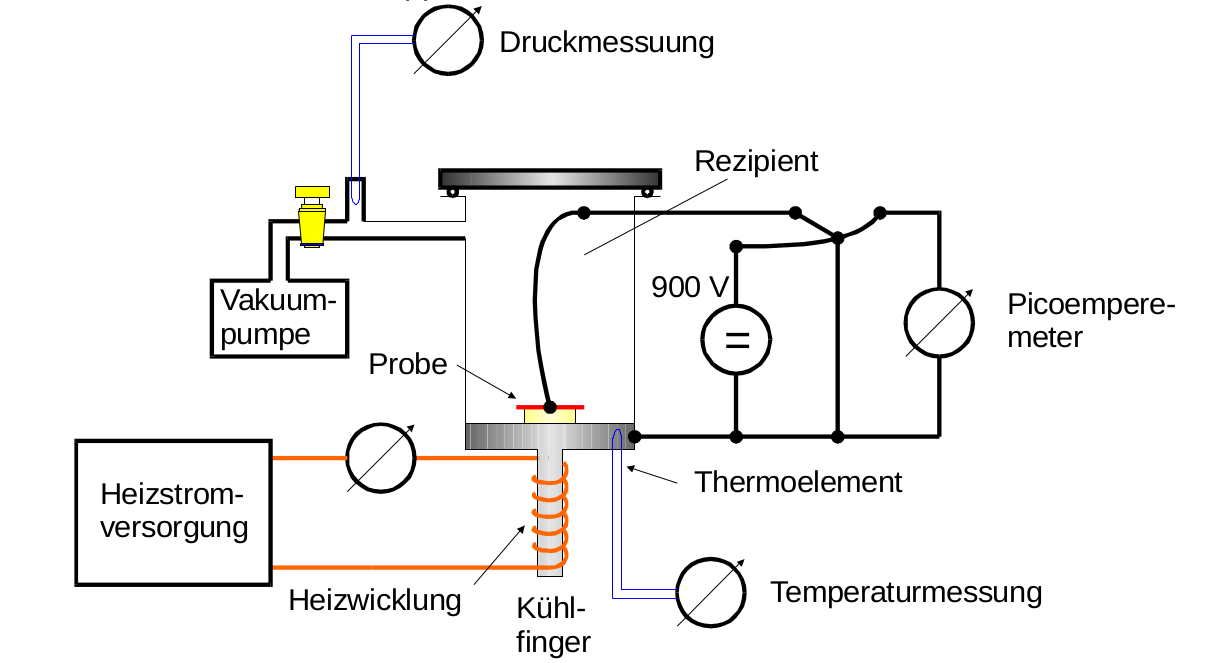
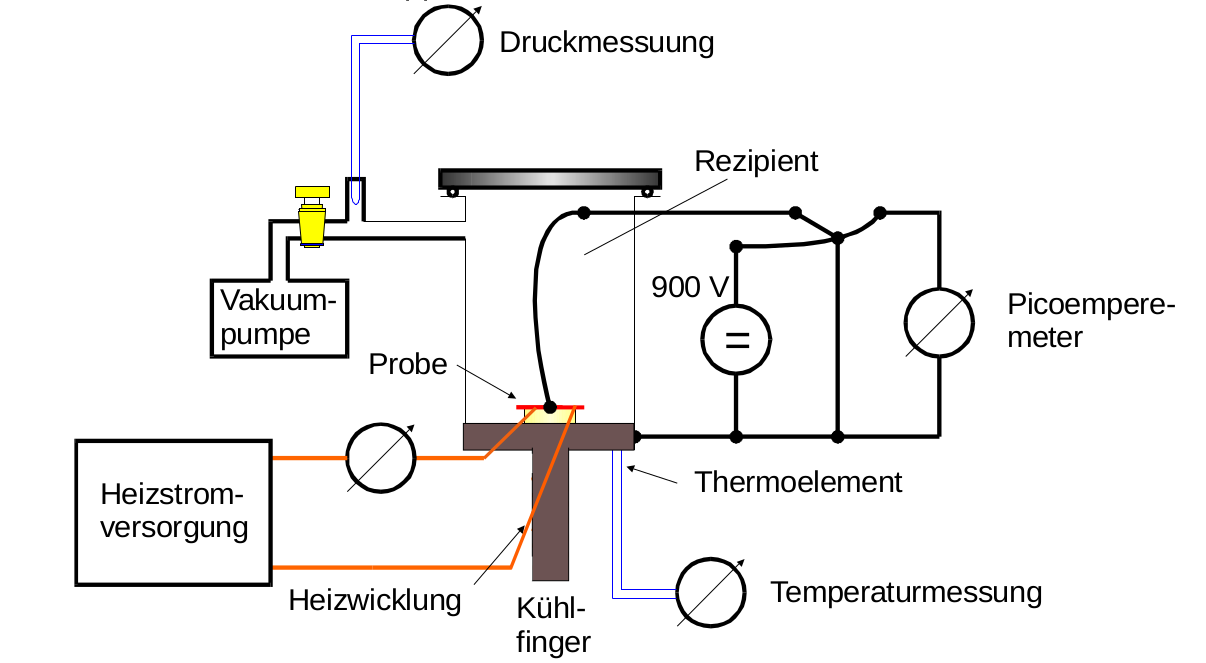
Fehler in Theo geändert und Bild neu

Changed region(s): [[0.3682, 0.6033, 0.5216, 0.8748]]

diff --git a/V48 Dipolrelaxation/content/auswertung.tex b/V48 Dipolrelaxation/content/auswertung.tex
@@ -1,35 +1,35 @@
 \section{Auswertung} \label{sec:Auswertung}
 Im Rahmen des Versuches wurde der Relaxationsstrom gemessen, dieser ist bis auf einen konstanten 
-Faktor proportional zur Stromdichte. 
-Deshalb können die zuvor dargestellten Zusammenhänge untersucht werden, 
-ohne das darauf Rücksicht genommen werden muss. 
+Faktor proportional zur Stromdichte.
+Deshalb können die zuvor dargestellten Zusammenhänge untersucht werden,
+ohne das darauf Rücksicht genommen werden muss.
 Die Daten zu den jeweiligen Diagrammen finden sich im Anhang \ref{sec:Anhang}.
 \paragraph{Bestimmung und Abzug des Untergrundes}
-In den Abbildungen \ref{fig:U2plot},\ref{fig:U15plot} sind die Relaxationsströme gegen die 
-Probentemperaturen aufgetragen, diese wurden mit verschiedenen Heizraten aufgenommen. 
-Es wurde versucht eine Messreihe mit einer Heizrate von \SI{2}{\celsius\per\minute} und eine 
-mit Heizrate \SI{1.5}{\celsius\per\minute} aufzunehmen. 
-Die berechneten, also die tatsächlichen Heizraten betragen 
-bei der Messreihe mit Soll-Heizrate \SI{2}{\celsius\per\minute}, 
-$\SI{2.089}{\celsius\per\minute} = \SI{0.035}{\kelvin\per\second}$ und bei der 
-Messreihe mit \SI{1.5}{\celsius\per\minute} Soll-Heizrate, 
-$\SI{1.37}{\celsius\per\minute} = \SI{0.023}{\kelvin\per\second}$. 
-Zur Beginn der Auswertung wird der apparative Vorlauf des 
-Amperemeter von den Daten abgezogen. Danach werden die Minima der Relaxationskurven ausfindig 
-gemacht (rote Punkte), 
-da diese den Verlauf des Untergrundes abzeichnen. Der Untergrund nimmt exponentiell mit 
+In den Abbildungen \ref{fig:U2plot},\ref{fig:U15plot} sind die Relaxationsströme gegen die
+Probentemperaturen aufgetragen, diese wurden mit verschiedenen Heizraten aufgenommen.
+Es wurde versucht eine Messreihe mit einer Heizrate von \SI{2}{\celsius\per\minute} und eine
+mit Heizrate \SI{1.5}{\celsius\per\minute} aufzunehmen.
+Die berechneten, also die tatsächlichen Heizraten betragen
+bei der Messreihe mit Soll-Heizrate \SI{2}{\celsius\per\minute},
+$\SI{2.089}{\celsius\per\minute} = \SI{0.035}{\kelvin\per\second}$ und bei der
+Messreihe mit \SI{1.5}{\celsius\per\minute} Soll-Heizrate,
+$\SI{1.37}{\celsius\per\minute} = \SI{0.023}{\kelvin\per\second}$.
+Zur Beginn der Auswertung wird der apparative Vorlauf des
+Amperemeter von den Daten abgezogen. Danach werden die Minima der Relaxationskurven ausfindig
+gemacht (rote Punkte),
+da diese den Verlauf des Untergrundes abzeichnen. Der Untergrund nimmt exponentiell mit
 der Temperatur zu. Deshalb wird dieser mit der Gleichung
 \begin{equation}
-U(T) = 	A\cdot \exp (C\cdot T ) + B 
+U(T) = 	A\cdot \exp (C\cdot T ) + B
 \end{equation}
-angenährt und mit nicht-linearer Ausgleichsrechnung die Parameter $A,B,C$ bestimmt. 
-Die Parameter sind für die jeweiligen Messreihen in der Tabelle \ref{tab:Uparam} dargestellt. 
-Die Untergrundkurven sind auch in den Abbildungen \ref{fig:U2plot},\ref{fig:U15plot} zu finden. 
-Zudem wurden in den Abbildungen der Bereich der den ersten Relaxationsprozess zeigt eingeschränkt 
-(rote Linien), nur dieser Bereich wird in der späteren Auswertung betrachtet. 
-Außerdem ist das Maximum der 
+angenährt und mit nicht-linearer Ausgleichsrechnung die Parameter $A,B,C$ bestimmt.
+Die Parameter sind für die jeweiligen Messreihen in der Tabelle \ref{tab:Uparam} dargestellt.
+Die Untergrundkurven sind auch in den Abbildungen \ref{fig:U2plot},\ref{fig:U15plot} zu finden.
+Zudem wurden in den Abbildungen der Bereich der den ersten Relaxationsprozess zeigt eingeschränkt
+(rote Linien), nur dieser Bereich wird in der späteren Auswertung betrachtet.
+Außerdem ist das Maximum der
 Relaxationskurve eingezeichnet, dieser Punkt ist ebenfalls für die spätere Auswertung interessant.
-Nachdem der Untergrund bestimmt ist wird dieser von den Daten abgezogen und nur noch der 
+Nachdem der Untergrund bestimmt ist wird dieser von den Daten abgezogen und nur noch der
 eingeschränkte Bereich betrachtet.
 
 \begin{table}
@@ -57,24 +57,24 @@ eingeschränkte Bereich betrachtet.
 \end{figure}
 \begin{figure}
   \centering
-  \includegraphics[height = 10cm]{plots/M1UGplot.pdf}
+  \includegraphics[height = 10cm]{plots/M2UGplot.pdf}
   \caption{Darstellung der Daten die mit Heizrate \SI{1.5}{\celsius\per\minute}aufgenommen wurden.}
   \label{fig:U15plot}
 \end{figure}
 \FloatBarrier
 \paragraph{Bestimmung der Akivierungsenergie anhand der Nährung der Stromdichte}
-Der folgende Teil der Auswertung bezieht sich auf die Nährung \eqref{eq:StromdichteNäherung2} 
+Der folgende Teil der Auswertung bezieht sich auf die Nährung \eqref{eq:StromdichteNäherung2}
 der Stromdichte. Durch logarithmieren dieser Gleichung ergibt sich folgender Ausdruck:
 \begin{equation}
 \ln(i(T)) = - \frac{W}{kT} + const  =  A \cdot \frac{1}{T} + B	\; .
 \label{eq:lnfit}
 \end{equation}
-Dabei ist zu beachten, dass diese Nährung nur im Anfangsbereich der Kurve gültig ist. 
-In dieser Auswertung wurden die Bereiche des ersten Minimums bis zum Maximums der Relaxationskurve 
-verwendet, die in den Abbildungen \ref{fig:U2plot},\ref{fig:U15plot} zuvor eingezeichnet waren.   
-Die Parameter sind in der Tabelle \ref{tab:ln1param} dargestellt. Die Daten mit Ausgleichsgerade sind 
-in der Abbildung \ref{fig:Meth1} dargestellt. Aus den Werten lässt sich die Aktivierungsenergie $W$ berechnen 
-mit $A\cdot (-k)= W$. Die Werte dazu sind ebenfalls in der Tabelle \ref{tab:ln1param} dargestellt. 
+Dabei ist zu beachten, dass diese Nährung nur im Anfangsbereich der Kurve gültig ist.
+In dieser Auswertung wurden die Bereiche des ersten Minimums bis zum Maximums der Relaxationskurve
+verwendet, die in den Abbildungen \ref{fig:U2plot},\ref{fig:U15plot} zuvor eingezeichnet waren.
+Die Parameter sind in der Tabelle \ref{tab:ln1param} dargestellt. Die Daten mit Ausgleichsgerade sind
+in der Abbildung \ref{fig:Meth1} dargestellt. Aus den Werten lässt sich die Aktivierungsenergie $W$ berechnen
+mit $A\cdot (-k)= W$. Die Werte dazu sind ebenfalls in der Tabelle \ref{tab:ln1param} dargestellt.
 \begin{table}
  \centering
  \caption{Parameter der Ausgleichsgeraden}
@@ -100,26 +100,26 @@ mit $A\cdot (-k)= W$. Die Werte dazu sind ebenfalls in der Tabelle \ref{tab:ln1p
 \end{figure}
 \FloatBarrier
 \paragraph{Bestimmung der Aktivierungsenergie und der charakteristischen Relaxationszeit}
-Zuerst wird die Gleichung \eqref{eq:tau2} betrachtet. Darin wird die Definition der Relaxationszeit 
-\eqref{eq:Relaxationszeit} eingesetzt, nun wird die Gleichung logarithmiert und es ergibt sich folgender 
-Zusammenhang: 
+Zuerst wird die Gleichung \eqref{eq:tau2} betrachtet. Darin wird die Definition der Relaxationszeit
+\eqref{eq:Relaxationszeit} eingesetzt, nun wird die Gleichung logarithmiert und es ergibt sich folgender
+Zusammenhang:
 \begin{equation}
-\ln \left(\frac{\int_T^{T^*} i(T') \symup{d}T'}{b \cdot i(T)} \right) = 
-\frac{W}{kT} + \ln \left(\frac{1}{\tau_0} \right) 	
+\ln \left(\frac{\int_T^{T^*} i(T') \symup{d}T'}{b \cdot i(T)} \right) =
+\frac{W}{kT} + \ln \left(\frac{1}{\tau_0} \right)
 = \frac{W}{kT} + const \rightarrow A \cdot \frac{1}{T} + B = \eqref{eq:lnfit}
 \quad \text{mit} \quad i(T^*) \approx 0 \; .
 \label{eq:lnint}
 \end{equation}
-Hier kann also wieder mit der linearen Ausgleichsrechnung \eqref{eq:lnfit} gearbeitet werden. 
-Dazu wird 
+Hier kann also wieder mit der linearen Ausgleichsrechnung \eqref{eq:lnfit} gearbeitet werden.
+Dazu wird
 \begin{equation*}
-	\ln \left(\frac{\int_T^{T^*} i(T') \symup{d}T'}{b \cdot i(T)} \right) 
+	\ln \left(\frac{\int_T^{T^*} i(T') \symup{d}T'}{b \cdot i(T)} \right)
 \end{equation*}
-gegen \sfrac{1}{T} aufgetragen, wie in Abbildung \ref{fig:Meth2} dargestellt. Die dadurch erhaltenen 
-Werte für die Parameter sind in Tabelle \ref{tab:ln2param} dargestellt. Aus den Parametern lassen sich dann 
-die Größen 
+gegen \sfrac{1}{T} aufgetragen, wie in Abbildung \ref{fig:Meth2} dargestellt. Die dadurch erhaltenen
+Werte für die Parameter sind in Tabelle \ref{tab:ln2param} dargestellt. Aus den Parametern lassen sich dann
+die Größen
 \begin{equation*}
- W = A\cdot k \qquad \text{und} \qquad \tau_0 = \exp(-B)	
+ W = A\cdot k \qquad \text{und} \qquad \tau_0 = \exp(-B)
 \end{equation*}
 berechnen, diese sind ebenfalls in der Tabelle \ref{tab:ln2param} dargestellt.
 
@@ -147,5 +147,3 @@ berechnen, diese sind ebenfalls in der Tabelle \ref{tab:ln2param} dargestellt.
  \end{tabular}
  \label{tab:ln2param}
 \end{table}
-
-

diff --git a/V48 Dipolrelaxation/content/theorie.tex b/V48 Dipolrelaxation/content/theorie.tex
@@ -2,10 +2,10 @@
 \label{sec:Theorie}
 Ionenkristalle, wie beispielsweise Kaliumbromid (KBr), bestehen aus Kationen (K$^{+}$) und Anionen (Br$^{-}$), welche
 auf festen Gitterplätzen angeordnet sind.
-Wird eine Störstelle wie ein zweiwertiges Kation, zum Beispiel Sr$^{2+}$, in den Kristall eingebaut so
+Wird eine Störstelle wie ein zweiwertiges Kation, zum Beispiel Sr$^{2+}$, in den Kristall eingebaut, so
 entsteht eine Leerstelle an einer anderen Kationen-Stelle um die lokale Ladungsneutralität aufrecht zu erhalten.
 So entsteht ein elektrischer Dipol mit Richtung entlang der Achse der Störstellen. Dies ist in \autoref{fig:Störstelle}
-beispielsweise für einen Cäsiumjodid Kristall dargestellt.
+beispielsweise für einen Cäsiumjodid-Kristall dargestellt.
 \begin{figure}[H]
   \centering
   \includegraphics[width=0.6\textwidth]{pics/Stoerstelle.png}
@@ -18,9 +18,9 @@ nur diskrete Richtungen und Beträge möglich. Eine Änderung der Richtung
 kann unter einer Temperatur von 500 K nur durch Leerstellendiffusion erfolgen.
 Dazu wird eine bestimmte, materialspezifische Energie $W$ benötigt, um das Gitterpotential zu überwinden.
 Die Anzahl der Dipole mit einer ausreichend großen thermischen Energie folgt der Boltzmann-Statistik.
-Ebenso folgt die mittlere Zeit zwischen zwei Umorientierungen, die Relaxationszeit $\tau$, dieser Verteilung.
+Ebenso folgt die mittlere Zeit zwischen zwei Umorientierungen, die Relaxationszeit $\tau$, dieser Verteilung:
 \begin{equation}
-  \tau(T) = \tau_0 \exp{\left(\frac{W}{kT}\right)}
+  \tau(T) = \tau_0 \exp{\left(\frac{W}{kT}\right)} .
   \label{eq:Relaxationszeit}
 \end{equation}
 Dabei ist $\tau_0$ die charakteristische Relaxationszeit.\\
@@ -56,7 +56,7 @@ zusammen. Dies lässt sich mit \autoref{eq:LagevinNäherung} als
 schreiben.
 Die Zahl der pro Zeitintervall relaxierenden Dipole ist proportional zur Zahl
 der noch orientierten Dipole und antiproportional zur Relaxationszeit $\tau(T)$.
-Dies lässt sich unter der Berücksichtigung einer konstanten Heizrate $b \tau_0$ durch
+Dies lässt sich unter der Berücksichtigung einer konstanten Heizrate durch
 \begin{equation}
   j(T) = \frac{p^2E}{3kT_p}\frac{N_p}{\tau_0}\exp{\left(-\frac{1}{\tau_0 \cdot b}\int^T_{T_0}\exp{\left(-\frac{W}{kT'}\right)}\symup{d}T'\right)}\exp{\left(-\frac{W}{kT}\right)}.
   \label{eq:StromdichteIntegral}
@@ -78,9 +78,4 @@ und die Relaxationsrate stetig fällt. Es kann ein zweites Maximum auftreten, we
 \end{equation}
 berechnen.
 Aus einem gemessenen Verlauf $i(T)$ lässt sich somit $W$ durch die Steigung einer linearen Ausgleichsgeraden an die logarithmierten Verläufe von \eqref{eq:tau2}, bzw. \eqref{eq:StromdichteNäherung2}, bestimmen.
-Zur Bestimmung von $\tau_0$ betrachtet man die Lage des Maximums von $i(T)$. Dieses liegt nach \eqref{eq:StromdichteNäherung2} bei
-\begin{equation}
-  \tau_{max}(T) = \frac{HkT_{max}^2}{W}.
-  \label{eqn:tau3}
-\end{equation}
-Mit Hilfe dieses Wertes und \eqref{eq:Relaxationszeit} lässt sich nun $\tau_0$ berechnen.
+aus 8 mit 1 kann  W und t_0

diff --git a/V48 Dipolrelaxation/content/durchfuehrung.tex b/V48 Dipolrelaxation/content/durchfuehrung.tex
@@ -9,6 +9,8 @@ Eine schematische Darstellung des Versuchsaufbaus ist in \autoref{fig:Aufbau} zu
 \end{figure}
 Die mit Strontium dotierte Kaliumbromid Probe befindet sich in einem Plattenkondensator,
 welcher sich wiederum in einem, mit einer Vakuumpumpe auf ca. $10^{-2}\,$ Torr evakuiertem, Rezipienten befindet.
+Dies wird gemacht, um die Umgebung der Probe von $\text{H}_2\text{O}$-Molekülen zu befreien, da
+diese auch Dipole besitzen, welche die Messung verfälschen würden.
 Des weiteren sind Heizstromversorgung, ein Gleichspannungs-Netzgerät sowie ein Thermoelemet und
 ein empfindliches Amperemeter angeschlossen.\\
 \\Die Probe wird zunächst auf eine Temperatur von ca. $50\,$°C erhitzt. Danach wird
@@ -16,7 +18,7 @@ das Netzgerät mit einer Spannung von $950\,$V eingeschaltet und die Probe für 
 im Feld gelassen. Nach dieser Polarisationszeit wird die Probe, durch das Eintauchen des Kühlfingers
 in flüssigen Stickstoff, auf ca. $-70\,$°C abgekühlt. Der Plattenkondensator wird
 kurzgeschlossen und das Picoamperemeter angeschlossen.
-Nach der Messung Offsets des Amperemeter wird mit der Messung begonnen.
+Nach der Messung des Offsets des Amperemeter wird mit der Messung begonnen.
 Mit einer konstanten Heizrate von $1,5\,$°C pro Minute wird die Probe erwärmt und
 in einem Abstand von jeweils einer Minute wird sowohl die Temperatur als auch der
 gemessene Relaxationsstrom gemessen.\\

diff --git a/V48 Dipolrelaxation/main.tex b/V48 Dipolrelaxation/main.tex
@@ -5,7 +5,7 @@
 \date{
   Durchführung: 15.10.2018
   \hspace{3em}
-  Abgabe: 22.10.2018
+  Abgabe: 26.10.2018
 }
 
 \begin{document}
